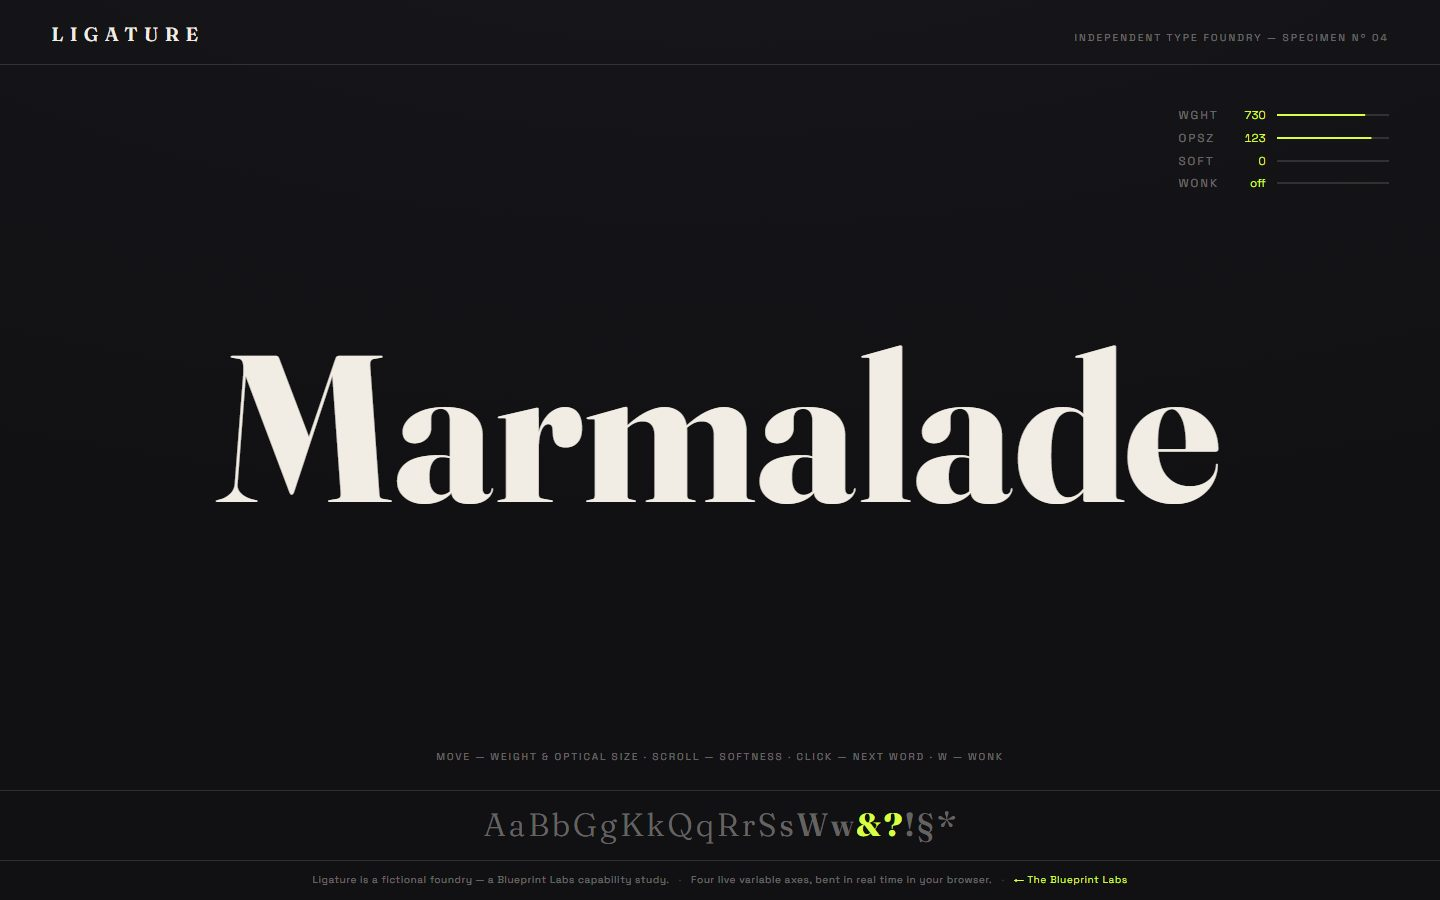
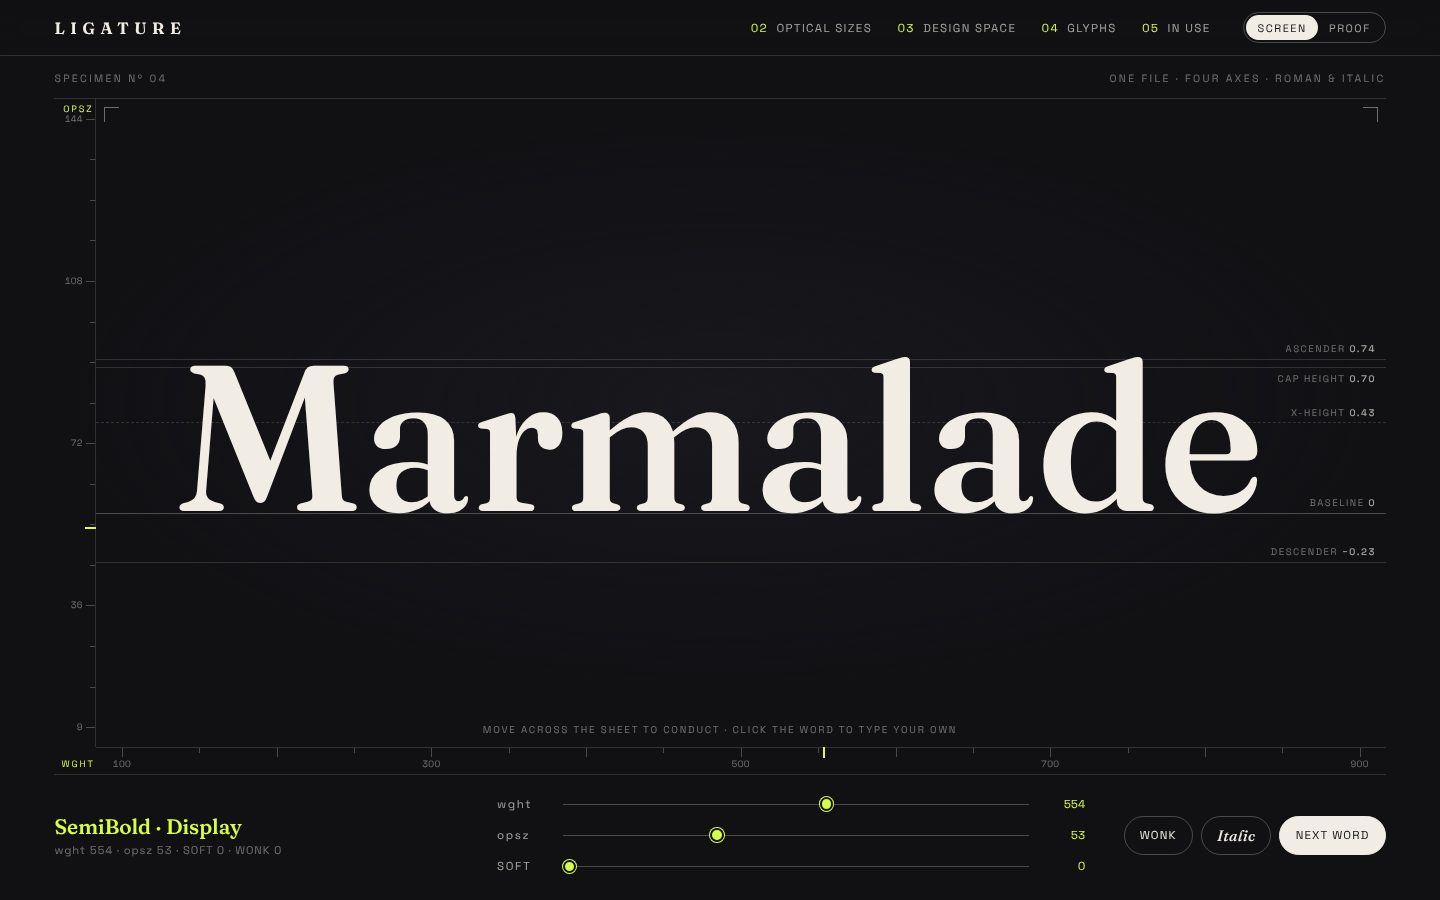
revamp: build 12-ligature-foundry [Claude]
Claude-Session: https://claude.ai/code/session_01DQwFJw17eUVBsd58sQTT1b

diff --git a/sites/12-ligature-foundry/index.html b/sites/12-ligature-foundry/index.html
@@ -51,9 +51,9 @@
         <p class="instance-vals" id="instance-vals">wght 400 · opsz 72 · SOFT 0 · WONK 0</p>
       </div>
       <div class="sliders">
-        <label class="slider"><span class="slider-tag">wght</span><input type="range" id="s-wght" min="100" max="900" step="1" value="400"><span class="slider-val" id="o-wght">400</span></label>
-        <label class="slider"><span class="slider-tag">opsz</span><input type="range" id="s-opsz" min="9" max="144" step="1" value="72"><span class="slider-val" id="o-opsz">72</span></label>
-        <label class="slider"><span class="slider-tag">SOFT</span><input type="range" id="s-soft" min="0" max="100" step="1" value="0"><span class="slider-val" id="o-soft">0</span></label>
+        <label class="slider"><span class="slider-tag">wght</span><input type="range" aria-label="Weight" id="s-wght" min="100" max="900" step="1" value="400"><span class="slider-val" id="o-wght">400</span></label>
+        <label class="slider"><span class="slider-tag">opsz</span><input type="range" aria-label="Optical size" id="s-opsz" min="9" max="144" step="1" value="72"><span class="slider-val" id="o-opsz">72</span></label>
+        <label class="slider"><span class="slider-tag">SOFT</span><input type="range" aria-label="Softness" id="s-soft" min="0" max="100" step="1" value="0"><span class="slider-val" id="o-soft">0</span></label>
       </div>
       <div class="toggles">
         <button class="chip" id="t-wonk" type="button" aria-pressed="false">Wonk</button>

diff --git a/revamp/notes/12-ligature-foundry.md b/revamp/notes/12-ligature-foundry.md
@@ -2,8 +2,8 @@
 
 - **Vertical:** Type Foundry
 - **Batch:** 3 · **Builder:** Claude · **Reviewer:** Codex
-- **Stage:** building
-- **Next step:** Pass 1 rebuild (plan below).
+- **Stage:** awaiting review
+- **Next step:** Codex reviews (T9).
 
 ## Original audit
 _Written before changing any code. Compare against branch `origin/v1-original`._
@@ -65,17 +65,57 @@ SOFT or WONK axes, so it now tries the real stylesheet first.
   strip.
 
 ## Pass log
-- Pass 1:
-- Pass 2:
-- Pass 3:
+- Pass 1: Rebuilt as a scrolling specimen sheet. Hero: the word fitted to
+  its widest instance, metric guides measured from the face (ascender,
+  cap height, x-height, baseline, descender), weight and optical-size
+  rulers with live marks, a pointer crosshair, a named-instance readout,
+  sliders for wght/opsz/SOFT, Wonk and Italic chips, Next word, and an
+  editable word (one line, 16 characters, paste as plain text). The
+  instance eases toward its goal and breathes when idle. Sections: 02
+  optical-size waterfall (120→9 px, each at its own opsz) with an
+  Auto/Off comparison; 03 a 7 × 5 weight × optical-size matrix of
+  buttons with an acid "you" crosshair; 04 the Latin glyph set with a
+  sticky inspector (big glyph, guides, advance box, Unicode code and
+  name); 05 an "In use" magazine spread whose headline is your word,
+  with deck, two-column body, drop cap and pull quote, each at its own
+  optical size; then a colophon. Sections receive the instance only
+  while visible (throttled), and their type "sets" from hairline to
+  your weight as it arrives. Screen/Proof palette switch, stored per
+  viewer.
+- Pass 2: Polish from renders. Guide labels collided (ascender vs cap
+  height), so cap height now sits under its line and any colliding
+  label is dropped. Rulers are inset so their end values stay inside,
+  with the axis names in the corners and pointer mapping matched to the
+  inset. The waterfall scaled non-monotonically on phones (38, 27, 19,
+  13, then 30 px), so it now scales every size smoothly. Ragged body
+  text on narrow columns (justified rivers), a wrapping hint, a larger
+  word fit (widest weight at opsz 30–144), registration marks on the
+  stage corners, and a full-width supersoft colophon wordmark (it
+  overlapped the text).
+- Pass 3: Viewports, input and tooling. Checked 1024x640, 768x1024,
+  844x390 and 360x640: the nav hides under 900 px (it wrapped on
+  tablets), and on portrait screens the stage sizes to the word instead
+  of filling the window. Tested typing your own word (it flows into the
+  magazine headline), design-space clicks, the inspector by hover and
+  Tab, Italic/Wonk/Soft, Proof mode, and opsz Off. Added accessible
+  names to the sliders. `scripts/cdn-mirror.js` now prefers the real
+  Google Fonts stylesheet, falling back to Fontsource statics only when
+  it is blocked, because the statics have no opsz, SOFT or WONK axes and
+  every check of this site would otherwise be wrong.
 
 ## Verification
-- check-rules:
-- verify-sites:
-- Visual check, desktop 1440x900:
-- Visual check, mobile 390x844:
-- Reduced motion:
-- Thumbnail regenerated:
+- check-rules: OK (96 files, 26 projects)
+- verify-sites: `--only 12 --cdn-mirror` → ok, console 0, page 0,
+  failed requests 0. Fonts came from the real Google Fonts service.
+- Visual check, desktop 1440x900: done. Hero idle and conducted (both
+  corners), italic + wonk + soft 100, Proof mode, every section, opsz
+  Off, typing, design-space click, inspector hover and focus.
+- Visual check, mobile 390x844: done. Hero, every section, Proof mode,
+  plus 360x640, 768x1024 and landscape 844x390.
+- Reduced motion: done. No breathing or set-in animation, the word swap
+  is instant, and every control still works directly.
+- Thumbnail regenerated: yes (`--wait 5000`, so the idle breathing has
+  started).
 
 ## Review
 _Reviewer: add findings as `- [ ] R1 (must|nice) …`, then follow the checklist in PROTOCOL §5._

diff --git a/revamp/BOARD.md b/revamp/BOARD.md
@@ -61,7 +61,7 @@ Stage: `not started` → `building` → `awaiting review` → `changes requested
 | 09-noctua-observatory | 2 | Codex | Claude | changes requested | [note](notes/09-noctua-observatory.md) |
 | 10-ember-bakery | 2 | Codex | Claude | changes requested | [note](notes/10-ember-bakery.md) |
 | 11-vertex-architecture | 3 | Claude | Codex | awaiting review | [note](notes/11-vertex-architecture.md) |
-| 12-ligature-foundry | 3 | Claude | Codex | building | [note](notes/12-ligature-foundry.md) |
+| 12-ligature-foundry | 3 | Claude | Codex | awaiting review | [note](notes/12-ligature-foundry.md) |
 | 13-bathyal-institute | 3 | Claude | Codex | not started | [note](notes/13-bathyal-institute.md) |
 | 14-suminaga-teahouse | 3 | Claude | Codex | not started | [note](notes/14-suminaga-teahouse.md) |
 | 15-vector-drift | 3 | Claude | Codex | not started | [note](notes/15-vector-drift.md) |
